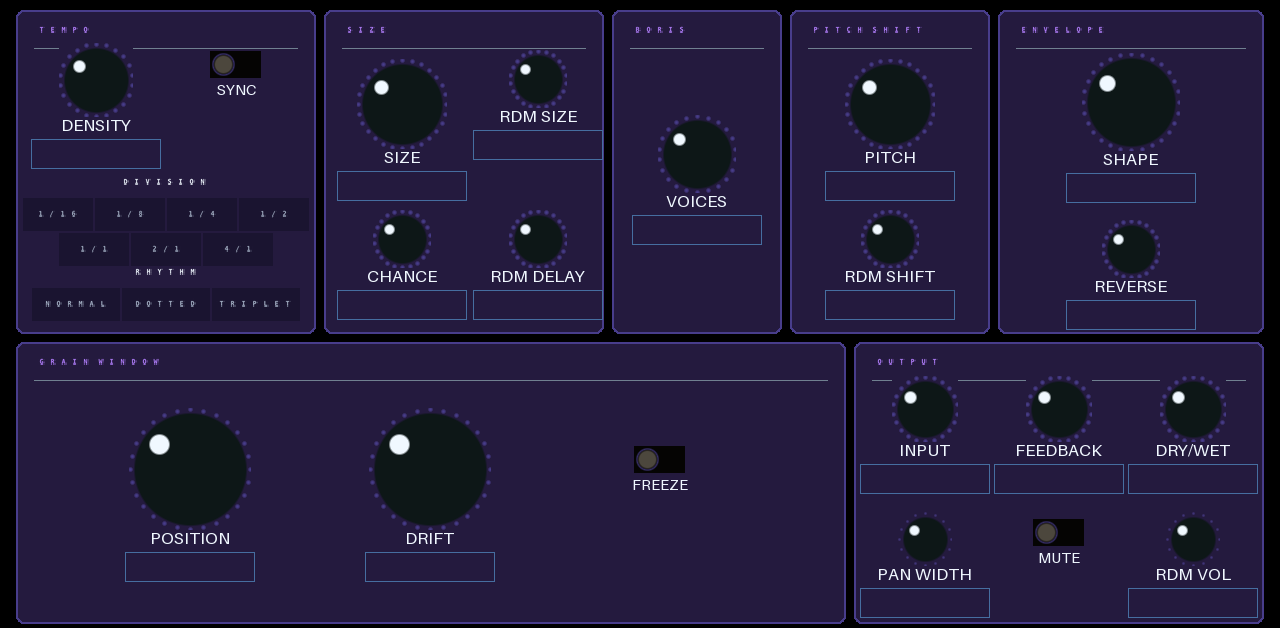
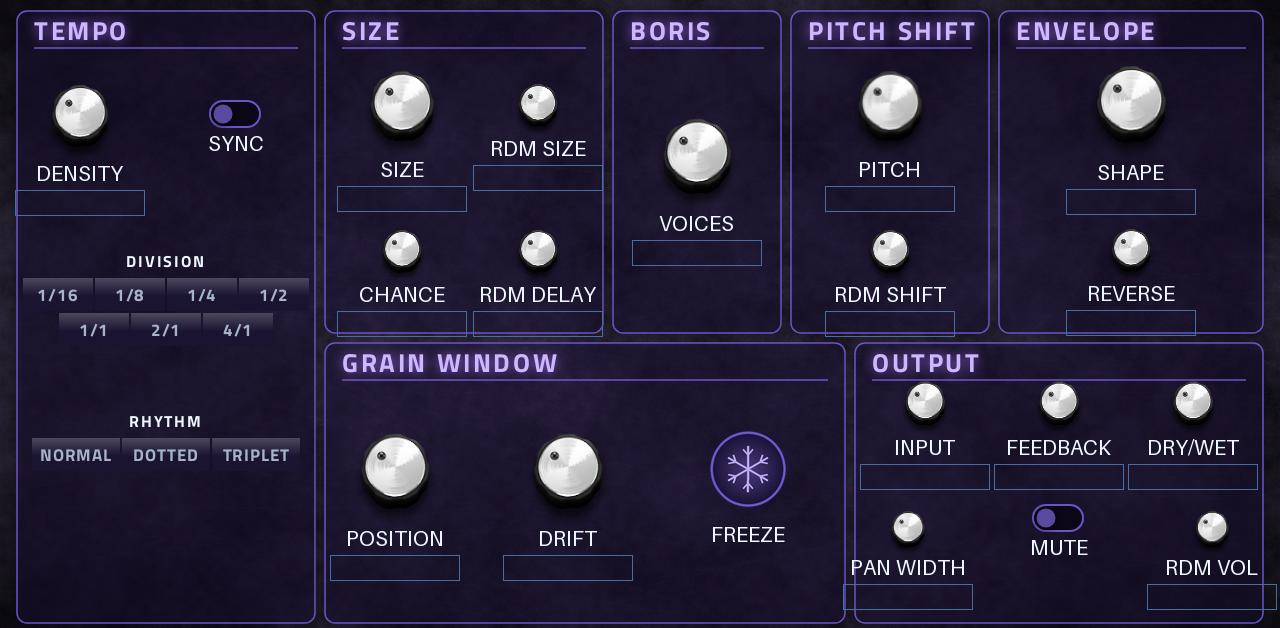
Skin: textured plate, panel rework, round Freeze button; README for release
Browser-rendered skin (Titillium text, lavender accents on a generated grunge
plate), TEMPO panel full height, narrower GRAIN WINDOW, bigger Voices knob and
a round Freeze button. README now covers features, controls, presets, install,
build and credits.

Claude-Session: https://claude.ai/code/session_01NSMoLsg4bxMmAX74qMPVzh

diff --git a/vst/skin.css b/vst/skin.css
@@ -1,0 +1,47 @@
+/* Boris Granular skin: purple on black, big legible Titillium text, glowing value arcs. */
+:root {
+  --title-size: 26px;
+  --label-size: 17px;
+  --seg-size: 17px;
+  --button-size: 17px;
+  --radius: 8px;
+  --sheen: 0.06;
+}
+text { font-weight: 700; }
+.td3 .frame-border { fill: var(--box); stroke: var(--line); stroke-width: 2; rx: 10; }
+.td3 .frame-title { fill: var(--accent-hi); font-size: 26px; letter-spacing: 0.1em; }
+.frame-rule { stroke: var(--accent); stroke-width: 2; opacity: 0.8; }
+.text { fill: var(--ink); font-size: 16px; letter-spacing: 0.12em; }
+
+.knob-track { stroke: #3a2f66; stroke-width: 7px !important; }
+.knob-arc { stroke: var(--accent); stroke-width: 7px !important; filter: drop-shadow(0 0 4px var(--accent)); }
+.knob-face { fill: #120c24; stroke: #5a4aa0; stroke-width: 2; }
+.knob-sheen { opacity: 0.5; }
+.knob-pointer { stroke: var(--ink); stroke-width: 4px !important; }
+
+.pill-track { fill: #120c24; stroke: var(--accent); stroke-width: 2; }
+.pill-thumb { fill: #5a4aa0; }
+.on .pill-thumb { fill: var(--accent); filter: drop-shadow(0 0 5px var(--accent)); }
+
+.seg-bg { fill: var(--fill); }
+.seg-tx { fill: var(--ink); font-weight: 700; }
+.box-label { fill: var(--ink); font-size: 17px; }
+
+/* --- realistic pass: textured plate, translucent panels, gunmetal knobs, lit arcs --- */
+:root { --sheen: 0.22; }
+.td3 .frame-border { fill: rgba(30, 18, 60, 0.42); stroke: #6a55c8; stroke-width: 1.5; filter: drop-shadow(0 3px 6px rgba(0,0,0,.7)); }
+.frame-rule { stroke: #8f6bff; opacity: .55; }
+.td3 .frame-title { fill: #cdb8ff; filter: drop-shadow(0 0 6px rgba(160,110,255,.8)); }
+#metal-radial stop:nth-child(1) { stop-color: #cfc7e6; }
+#metal-radial stop:nth-child(2) { stop-color: #5d5775; }
+#metal-radial stop:nth-child(3) { stop-color: #15101f; }
+.knob-face { fill: url(#metal-radial); stroke: #0a0614; stroke-width: 2.5;
+             filter: drop-shadow(0 5px 5px rgba(0,0,0,.85)); }
+.knob-sheen { opacity: .9; }
+.knob-track { stroke: #1a1230; stroke-width: 3px !important; }
+.knob-arc { stroke: #b480ff; stroke-width: 3px !important;
+            filter: drop-shadow(0 0 1.5px #b480ff); }
+.knob-pointer { stroke: #f4eeff; stroke-width: 3.5px !important; filter: drop-shadow(0 0 2px #000); }
+.pill-track { fill: #0b0716; stroke: #6a55c8; }
+.on .pill-thumb { fill: #b480ff; filter: drop-shadow(0 0 8px #b480ff); }
+.box { fill: #0b0716; stroke: #6a55c8; }

diff --git a/vst/images/gen_freeze.py b/vst/images/gen_freeze.py
@@ -1,0 +1,23 @@
+"""Round glowing Freeze button, off/on (96x96). docker python:3.11-slim + pillow."""
+import math
+from PIL import Image, ImageDraw, ImageFilter
+S = 96
+def make(on):
+    im = Image.new("RGBA", (S * 4, S * 4), (0, 0, 0, 0)); d = ImageDraw.Draw(im); c = S * 2
+    if on:
+        g = Image.new("RGBA", im.size, (0, 0, 0, 0)); ImageDraw.Draw(g).ellipse((c - 150, c - 150, c + 150, c + 150), fill=(180, 128, 255, 200))
+        im = Image.alpha_composite(im, g.filter(ImageFilter.GaussianBlur(24))); d = ImageDraw.Draw(im)
+    d.ellipse((c - 150, c - 150, c + 150, c + 150), fill=(14, 8, 28, 255), outline=(106, 85, 200, 255), width=10)
+    top, bot = ((196, 160, 255), (110, 60, 210)) if on else ((70, 56, 120), (28, 20, 56))
+    for i in range(120, 0, -1):
+        t = i / 120; col = tuple(int(bot[k] * t + top[k] * (1 - t)) for k in range(3)) + (255,)
+        d.ellipse((c - i - 20 + (1 - t) * 18, c - i - 20 + (1 - t) * 18, c + i + 20 - (1 - t) * 6, c + i + 20 - (1 - t) * 6), fill=col)
+    ink = (255, 255, 255, 255) if on else (190, 170, 240, 255)
+    for k in range(6):                                   # snowflake
+        a = math.radians(60 * k + 90); x, y = c + 92 * math.cos(a), c - 92 * math.sin(a)
+        d.line((c, c, x, y), fill=ink, width=9)
+        for s in (-1, 1):
+            b = a + s * math.radians(40); mx, my = c + 56 * math.cos(a), c - 56 * math.sin(a)
+            d.line((mx, my, mx + 30 * math.cos(b), my - 30 * math.sin(b)), fill=ink, width=7)
+    return im.resize((S, S), Image.LANCZOS)
+make(False).save("images/freeze_off.png"); make(True).save("images/freeze_on.png")

diff --git a/vst/images/gen_bg.py b/vst/images/gen_bg.py
@@ -1,0 +1,26 @@
+"""Procedural grunge plate for the Boris Granular skin (1280x628): dark, purple-tinted, scratched, vignetted.
+Run: docker run --rm -v "$PWD":/w -w /w python:3.11-slim bash -c "pip install -q pillow numpy; python3 images/gen_bg.py" """
+import numpy as np
+from PIL import Image, ImageFilter
+W, H = 1280, 628
+rng = np.random.default_rng(7)
+def octave(scale, amp):
+    n = rng.random((H // scale + 2, W // scale + 2)).astype("f4")
+    im = Image.fromarray((n * 255).astype("u1")).resize((W, H), Image.BICUBIC)
+    return np.asarray(im, "f4") / 255 * amp
+t = octave(2, .35) + octave(8, .5) + octave(32, .7) + octave(120, .9)
+t = (t - t.min()) / (t.max() - t.min())
+# fine scratches: faint long strokes
+sc = np.zeros((H, W), "f4")
+for _ in range(260):
+    x, y = rng.integers(0, W), rng.integers(0, H); l = rng.integers(40, 260); a = rng.normal(0, .25)
+    for i in range(l):
+        xx, yy = int(x + i), int(y + i * a)
+        if 0 <= xx < W and 0 <= yy < H: sc[yy, xx] = max(sc[yy, xx], rng.random() * .5)
+sc = np.asarray(Image.fromarray((sc * 255).astype("u1")).filter(ImageFilter.GaussianBlur(.6)), "f4") / 255
+g = 0.07 + 0.20 * t + 0.12 * sc
+yy, xx = np.mgrid[0:H, 0:W]
+vig = 1 - 0.55 * (((xx - W / 2) / (W / 1.6)) ** 2 + ((yy - H / 2) / (H / 1.4)) ** 2)
+g = g * np.clip(vig, .25, 1)
+rgb = np.stack([g * 1.05, g * .92, g * 1.35], -1)          # cold purple cast
+Image.fromarray((np.clip(rgb, 0, 1) * 255).astype("u1")).save("images/bg.png")

diff --git a/README.md b/README.md
@@ -1,28 +1,80 @@
-# Boris Granular (MPC VST effect)
+# Boris Granular (MPC / Force VST effect)
 
-Real-time granular insert effect for MPC OS / Force: incoming audio goes into a 10 s buffer and up to 24 overlapping
-grains replay it with per-grain random size, delay, pitch, direction, volume and pan. DSP from
-[boris-move](https://github.com/filliformes/boris-move) (plain C), itself a port of
-[Boris Granular Station](https://github.com/glesdora/boris-granular-station) by Alessandro Gaiba. The skin follows Boris
-Granular Station's own GUI: black plate, deep-purple panels, aliceblue ink, lavender accent, TEMPO / SIZE / PITCH SHIFT /
-ENVELOPE across the top.
+A real-time granular insert effect for Akai MPC OS and Force standalone devices. Audio going into the effect is written
+to a 10 second buffer, and up to 24 overlapping grains replay it, each with its own random size, delay, pitch,
+direction, volume and pan. Use it for smeared pads, frozen textures, stutters, shimmer, tape-style echoes and
+tempo-synced chops.
 
 ![skin preview](docs/skin-preview.png)
 
+## Features
+- Granular engine with up to **24 voices** over a **10 s** circular buffer, 44.1 kHz stereo.
+- **Tempo sync** to MPC's own tempo: grain triggers lock to 1/16 up to 4/1, normal, dotted or triplet.
+- **Freeze** holds the buffer so the grains keep playing the captured sound.
+- Per-grain randomisation of size, delay, pitch shift, volume and reverse.
+- **Feedback**, **dry/wet**, input gain, pan width and mute.
+- Grain envelope morphing between Hann, triangle and trapezoid.
+- **22 factory presets** in MPC's PRESET menu, and full project save and recall.
+- A native MPC screen skin with two Q-Link sets, and MIDI CC / NRPN control of every parameter.
+
 ## Controls
-One page, two Q-Link sets: **GRAIN** (density, size, position, pitch, feedback, pan width, freeze, dry/wet, envelope,
-drift, rdm size/delay/shift, reverse, rdm vol, chance) and **TEMPO** (sync, division, rhythm, input, mute, voices).
-Sync locks grain triggers to MPC's tempo (division 1/16 to 4/1, normal / dotted / triplet).
+The page is laid out in panels:
 
-## Build
-`./build.sh` (Docker) with a checkout of [mpc-vst-plugins](https://github.com/sd88me/mpc-vst-plugins) next to this repo (or `MPC_VST=<path>`). Offline test: `$MPC_VST/tools/test_port.sh vst/vst.json`.
+| Panel | Controls |
+|---|---|
+| TEMPO | Density, Sync, Division (1/16 to 4/1), Rhythm (normal / dotted / triplet) |
+| SIZE | Size, Rdm Size, Chance, Rdm Delay |
+| BORIS | Voices (1 to 24) |
+| PITCH SHIFT | Pitch, Rdm Shift |
+| ENVELOPE | Shape, Reverse (probability of a reversed grain) |
+| GRAIN WINDOW | Position, Drift, Freeze |
+| OUTPUT | Input, Feedback, Dry/Wet, Pan Width, Mute, Rdm Vol |
 
-## License
-GPL-3.0 (`LICENSE`), as the upstream projects. See `src/VENDORED.md`.
+**Q-Links** are in two sets. **GRAIN** holds density, size, position, pitch, feedback, pan width, freeze, dry/wet,
+envelope, drift, the random amounts, reverse, random volume and chance. **TEMPO** holds sync, division, rhythm,
+input, mute and voices. With **Sync** on, grain triggers follow MPC's tempo at the chosen Division and Rhythm.
 
 ## Presets
-22 factory presets in `vst/presets.json`, listed in MPC's PRESET menu (the wrapper's VST programs; each sets every
-parameter): Init, Realtime Grains (Boris Granular Station's own default), Soft Smear, Cloud Pad, Frozen Choir, Reverse
-Swell, Half Reverse, Octave Up Shimmer, Octave Down, Fifth Harmony, Detune Wash, Glitch Scatter, Micro Grains,
-Tape Stutter 1/16, Dotted Echo 1/8, Triplet Chop, Half Bar Drone (the synced ones follow MPC's tempo), Sparse Rain,
-Feedback Bloom, Deep Space, Lo-Fi Thin, Wet Only Texture. Append new ones; keep the order of shipped ones.
+Init, Realtime Grains (Boris Granular Station's own default), Soft Smear, Cloud Pad, Frozen Choir, Reverse Swell,
+Half Reverse, Octave Up Shimmer, Octave Down, Fifth Harmony, Detune Wash, Glitch Scatter, Micro Grains,
+Tape Stutter 1/16, Dotted Echo 1/8, Triplet Chop, Half Bar Drone, Sparse Rain, Feedback Bloom, Deep Space,
+Lo-Fi Thin, Wet Only Texture. The tempo-synced ones follow MPC's tempo. Pick one from the PRESET menu; each sets every
+parameter. New presets are appended to `vst/presets.json`; the order of shipped ones is kept.
+
+## Install
+Download the release zip, copy it to the device and run the installer as root:
+
+```
+unzip Boris-Granular-<version>-mpc-armv7.zip
+cd Boris-Granular-<version>
+sh install.sh
+```
+
+The installer copies the plugin folder to `/sdcard/Synths`, backs up `MPC.settings`, adds the plugin to the list and
+restarts MPC. Then add **Boris Granular** as an insert effect on a track (or return). `uninstall.sh` removes it.
+The plugin folder (`portable/sd88me - VST - Boris Granular`) can also be dropped into a `Synths` folder by hand.
+A new skin needs an MPC restart; after that, removing and re-inserting the plugin picks up an updated `.so`.
+
+Tested on a Force (MPC OS armv7). The skin needs **MPC OS 3.x** (not 2.x).
+
+## Build
+Needs Docker and a checkout of [mpc-vst-plugins](https://github.com/sd88me/mpc-vst-plugins) (`main`) next to this repo,
+or `MPC_VST=<path>`:
+
+```
+./build.sh                                 # .so, skin, plugin-list entry in vst/build/
+$MPC_VST/tools/test_port.sh vst/vst.json   # offline host test (x86, ASan/UBSan)
+$MPC_VST/tools/bench.sh vst/build/boris_granular.so <device-ip>
+```
+
+The skin is drawn from `vst/layout.conf`, `vst/skin.css` and the images in `vst/images/` (`gen_bg.py` and
+`gen_freeze.py` regenerate the plate texture and the Freeze button).
+
+## Credits
+- **Boris Granular Station** by Alessandro Gaiba ([glesdora/boris-granular-station](https://github.com/glesdora/boris-granular-station), GPL-3.0): the original JUCE / RNBO granular effect, its design and its colours.
+- **boris-move** by [filliformes](https://github.com/filliformes/boris-move) (GPL-3.0): the plain-C DSP this port is built on (vendored in `src/dsp/`, see `src/VENDORED.md`).
+- **[mpc-vst-plugins](https://github.com/sd88me/mpc-vst-plugins)**: the VST2 wrapper, skin generator, test and bench tools for MPC OS.
+- Skin text is set in Titillium Web (SIL OFL).
+
+## License
+GPL-3.0 (`LICENSE`), as the upstream projects.
